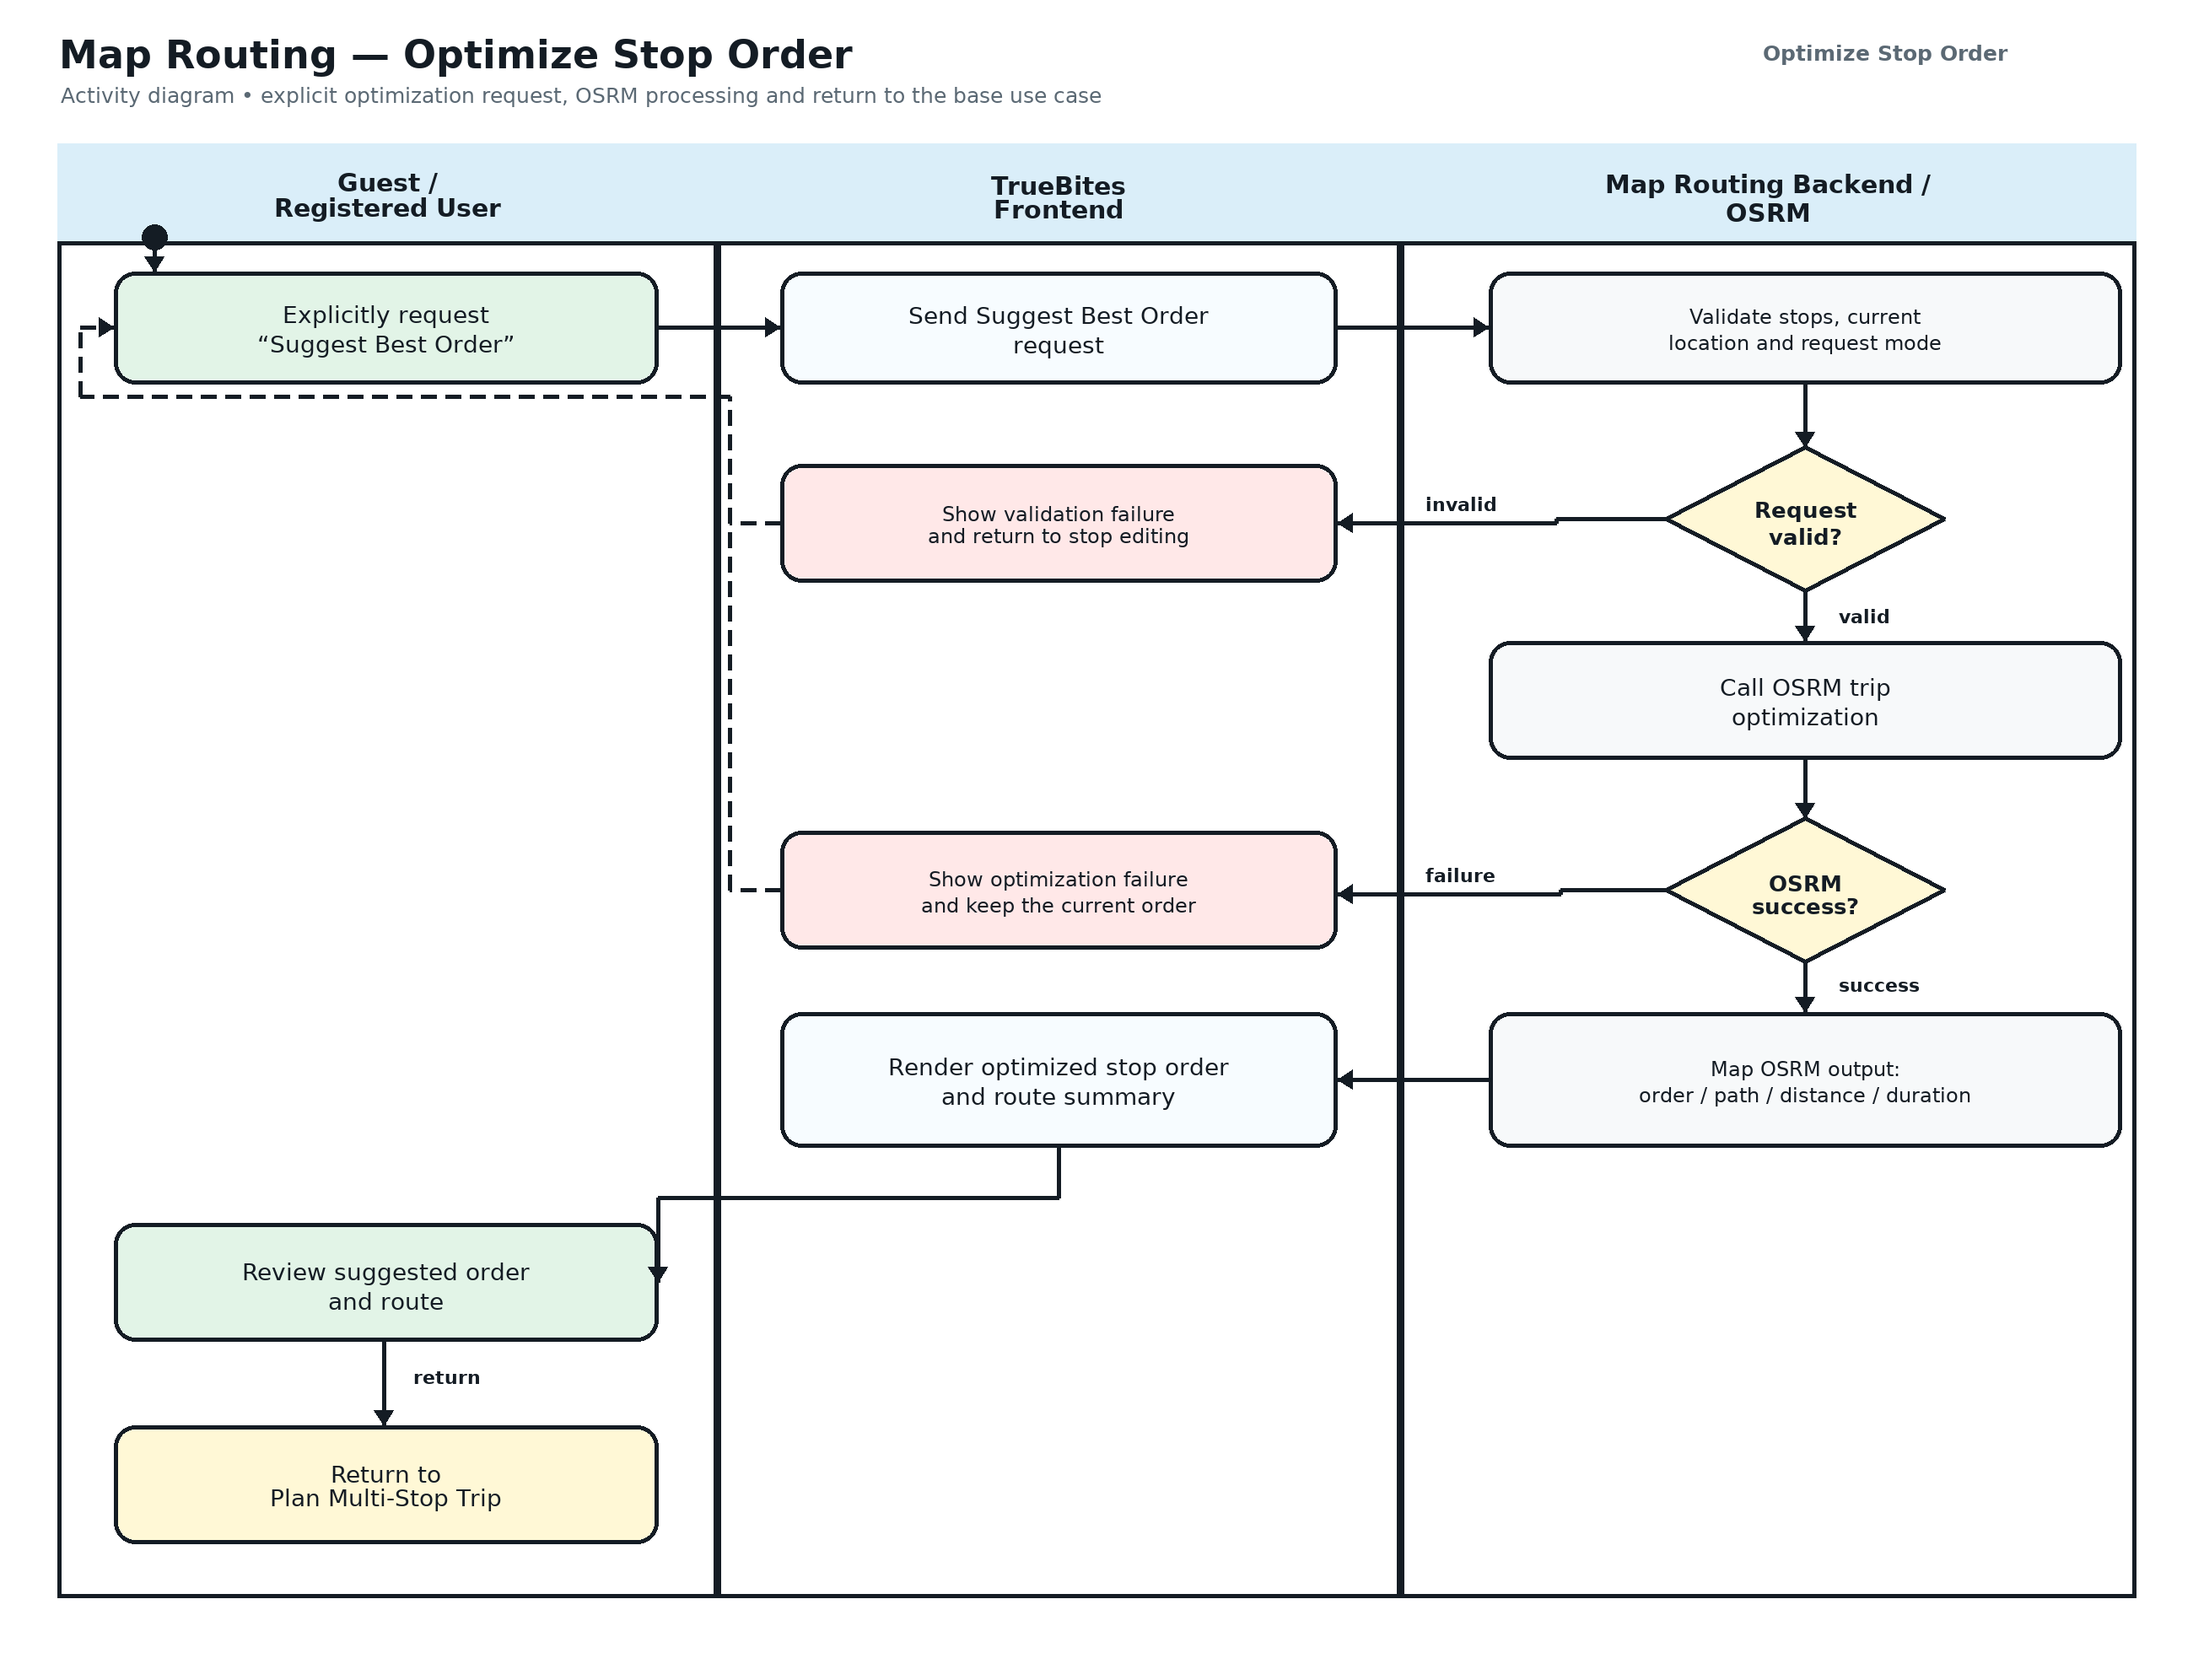
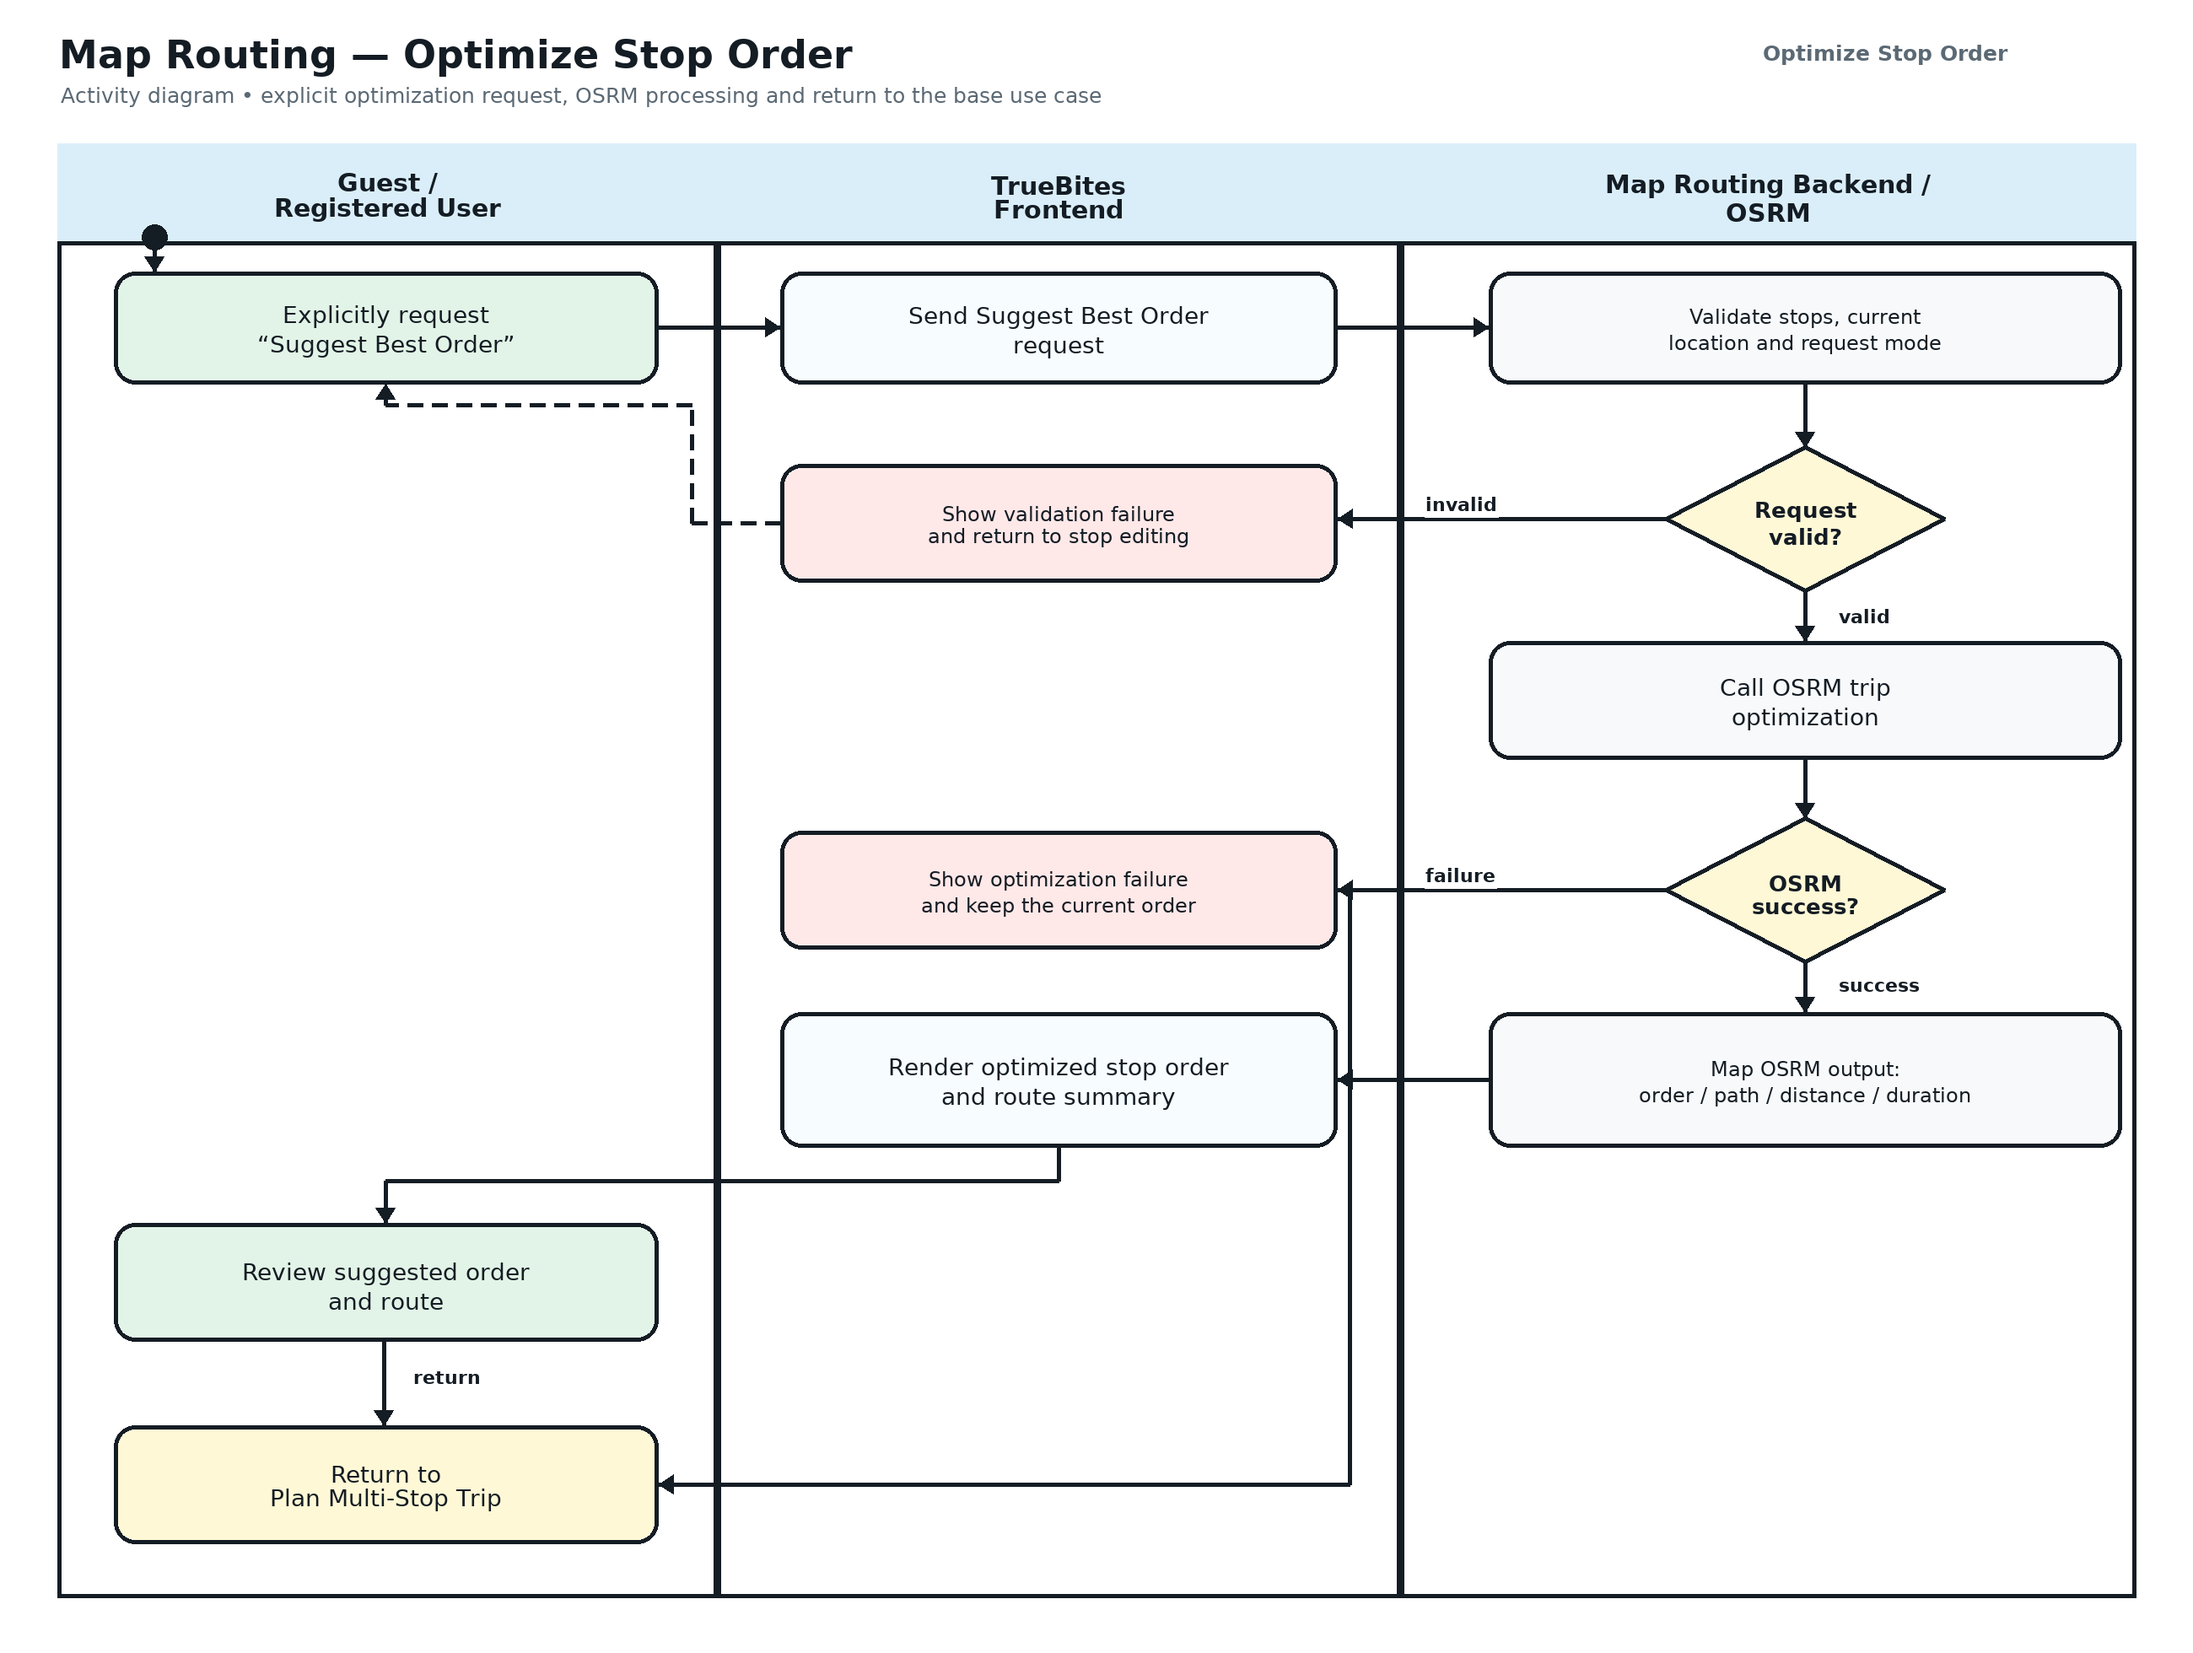
fix: align activity diagram connectors

diff --git a/scripts/render_map_routing_uml.py b/scripts/render_map_routing_uml.py
@@ -407,6 +407,56 @@ def draw_activity_lanes(draw: ImageDraw.ImageDraw, *, title_suffix: str) -> None
     draw.text((WIDTH - 510, 48), title_suffix, font=load_font(25, bold=True), fill=MID_GREY)
 
 
+def plan_activity_routes() -> dict[str, list[tuple[int, int]]]:
+    """Return the long plan-activity connectors that need dedicated gutters."""
+
+    return {
+        "gps_to_edit": [(925, 572), (780, 572)],
+        "backend_invalid_to_error": [(1975, 1265), (1585, 1265)],
+        "display_to_review": [
+            (1255, 1740),
+            (1255, 1760),
+            (457, 1760),
+            (457, 1780),
+        ],
+        "validation_error_retry": [
+            (1255, 1340),
+            (1255, 1380),
+            (95, 1380),
+            (95, 572),
+            (135, 572),
+        ],
+    }
+
+
+def optimize_activity_routes() -> dict[str, list[tuple[int, int]]]:
+    """Return optimization connectors with distinct retry channels."""
+
+    return {
+        "validation_invalid_to_error": [(1975, 615), (1585, 615)],
+        "osrm_failure_to_error": [(1975, 1055), (1585, 1055)],
+        "render_to_review": [
+            (1255, 1360),
+            (1255, 1400),
+            (457, 1400),
+            (457, 1450),
+        ],
+        "validation_failure_retry": [
+            (925, 620),
+            (820, 620),
+            (820, 480),
+            (457, 480),
+            (457, 455),
+        ],
+        "processing_failure_to_return": [
+            (1585, 1055),
+            (1600, 1055),
+            (1600, 1760),
+            (780, 1760),
+        ],
+    }
+
+
 def render_use_case() -> Path:
     image, draw = new_canvas(
         "Map Routing — Use-Case Diagram",
@@ -462,6 +512,7 @@ def render_plan_activity() -> Path:
         "Activity diagram • opening the map, collecting stops, requesting and reviewing a route",
     )
     draw_activity_lanes(draw, title_suffix="Plan Multi-Stop Trip")
+    routes = plan_activity_routes()
     box_font = load_font(28)
     small_font = load_font(24)
     decision_font = load_font(26, bold=True)
@@ -563,11 +614,7 @@ def render_plan_activity() -> Path:
     draw_polyline_arrow(draw, [(183, 296), (183, 322)], width=STROKE)
     draw_polyline_arrow(draw, [(780, 378), (925, 378)], width=STROKE)
     draw_polyline_arrow(draw, [(1255, 445), (1255, 495)], width=STROKE)
-    draw_polyline_arrow(
-        draw,
-        [(925, 560), (875, 560), (875, 572), (780, 572)],
-        width=STROKE,
-    )
+    draw_polyline_arrow(draw, routes["gps_to_edit"], width=STROKE)
     draw_polyline_arrow(draw, [(457, 640), (457, 720)], width=STROKE)
     draw_polyline_arrow(draw, [(780, 775), (925, 775)], width=STROKE)
     draw_polyline_arrow(draw, [(1255, 830), (1255, 850)], width=STROKE)
@@ -577,23 +624,23 @@ def render_plan_activity() -> Path:
     draw_polyline_arrow(draw, [(1255, 1000), (1255, 1035)], width=STROKE)
     draw_polyline_arrow(draw, [(1585, 1102), (1765, 1102)], width=STROKE)
     draw_polyline_arrow(draw, [(2140, 1170), (2140, 1180)], width=STROKE)
-    draw_polyline_arrow(draw, [(1975, 1265), (1850, 1265), (1850, 1270), (1585, 1270)], width=STROKE)
+    draw_polyline_arrow(draw, routes["backend_invalid_to_error"], width=STROKE)
     draw_label_on_line(draw, (1705, 1235), "invalid", font=load_font(22, bold=True))
     draw_polyline_arrow(draw, [(2140, 1350), (2140, 1400)], width=STROKE)
     draw_label_on_line(draw, (2180, 1360), "valid", font=load_font(22, bold=True))
     draw_polyline_arrow(draw, [(2140, 1535), (2140, 1600)], width=STROKE)
     draw_polyline_arrow(draw, [(1765, 1670), (1585, 1670)], width=STROKE)
-    draw_polyline_arrow(draw, [(925, 1670), (850, 1670), (850, 1835), (450, 1835)], width=STROKE)
+    draw_polyline_arrow(draw, routes["display_to_review"], width=STROKE)
     draw_polyline_arrow(draw, [(450, 1835), (500, 1835)], dashed=True, width=STROKE)
 
-    # Invalid point handling loops back to the editable stop list without crossing labels.
+    # The retry loop uses the empty lower gutter and returns along the far-left margin.
     draw_polyline_arrow(
         draw,
-        [(925, 1270), (865, 1270), (865, 660), (95, 660), (95, 572), (135, 572)],
+        routes["validation_error_retry"],
         dashed=True,
         width=STROKE,
     )
-    draw_label_on_line(draw, (110, 690), "edit and retry", font=load_font(21, bold=True))
+    draw_label_on_line(draw, (110, 1345), "edit and retry", font=load_font(21, bold=True))
 
     path = OUTPUT_DIR / "map-routing-activity-plan-trip.png"
     image.save(path, format="PNG", optimize=False, compress_level=9)
@@ -606,6 +653,7 @@ def render_optimize_activity() -> Path:
         "Activity diagram • explicit optimization request, OSRM processing and return to the base use case",
     )
     draw_activity_lanes(draw, title_suffix="Optimize Stop Order")
+    routes = optimize_activity_routes()
     box_font = load_font(28)
     small_font = load_font(24)
     decision_font = load_font(26, bold=True)
@@ -686,31 +734,31 @@ def render_optimize_activity() -> Path:
     draw_polyline_arrow(draw, [(780, 388), (925, 388)], width=STROKE)
     draw_polyline_arrow(draw, [(1585, 388), (1765, 388)], width=STROKE)
     draw_polyline_arrow(draw, [(2140, 455), (2140, 530)], width=STROKE)
-    draw_polyline_arrow(draw, [(1975, 615), (1845, 615), (1845, 620), (1585, 620)], width=STROKE)
+    draw_polyline_arrow(draw, routes["validation_invalid_to_error"], width=STROKE)
     draw_label_on_line(draw, (1690, 585), "invalid", font=load_font(22, bold=True))
     draw_polyline_arrow(draw, [(2140, 700), (2140, 760)], width=STROKE)
     draw_label_on_line(draw, (2180, 718), "valid", font=load_font(22, bold=True))
     draw_polyline_arrow(draw, [(2140, 900), (2140, 970)], width=STROKE)
-    draw_polyline_arrow(draw, [(1975, 1055), (1850, 1055), (1850, 1060), (1585, 1060)], width=STROKE)
+    draw_polyline_arrow(draw, routes["osrm_failure_to_error"], width=STROKE)
     draw_label_on_line(draw, (1690, 1025), "failure", font=load_font(22, bold=True))
     draw_polyline_arrow(draw, [(2140, 1140), (2140, 1200)], width=STROKE)
     draw_label_on_line(draw, (2180, 1155), "success", font=load_font(22, bold=True))
     draw_polyline_arrow(draw, [(1765, 1280), (1585, 1280)], width=STROKE)
-    draw_polyline_arrow(draw, [(1255, 1360), (1255, 1420), (780, 1420), (780, 1520)], width=STROKE)
+    draw_polyline_arrow(draw, routes["render_to_review"], width=STROKE)
     draw_polyline_arrow(draw, [(455, 1590), (455, 1690)], width=STROKE)
     draw_label_on_line(draw, (490, 1620), "return", font=load_font(22, bold=True))
 
-    # Failure and invalid branches loop back to the same user-editing entry point.
+    # Validation uses the local gap to retry; provider failure keeps the current
+    # order and returns to the base use case through the open lower gutter.
     draw_polyline_arrow(
         draw,
-        [(925, 620), (865, 620), (865, 470), (95, 470), (95, 388), (135, 388)],
+        routes["validation_failure_retry"],
         dashed=True,
         width=STROKE,
     )
     draw_polyline_arrow(
         draw,
-        [(925, 1055), (865, 1055), (865, 470), (95, 470), (95, 388), (135, 388)],
-        dashed=True,
+        routes["processing_failure_to_return"],
         width=STROKE,
     )
 

diff --git a/tests/test_render_map_routing_uml.py b/tests/test_render_map_routing_uml.py
@@ -1,0 +1,86 @@
+import unittest
+
+from scripts.render_map_routing_uml import (
+    optimize_activity_routes,
+    plan_activity_routes,
+)
+
+
+LANE_DIVIDERS = {850, 1660}
+
+
+def vertical_segments(points):
+    return [
+        (start, end)
+        for start, end in zip(points, points[1:])
+        if start[0] == end[0]
+    ]
+
+
+class ActivityRouteLayoutTests(unittest.TestCase):
+    def test_plan_cross_lane_connectors_do_not_have_micro_jogs(self):
+        routes = plan_activity_routes()
+
+        self.assertEqual(routes["gps_to_edit"], [(925, 572), (780, 572)])
+        self.assertEqual(
+            routes["backend_invalid_to_error"],
+            [(1975, 1265), (1585, 1265)],
+        )
+
+    def test_plan_review_flow_avoids_lane_dividers_and_enters_box_from_top(self):
+        route = plan_activity_routes()["display_to_review"]
+
+        self.assertEqual(route[-1], (457, 1780))
+        self.assertTrue(
+            all(start[0] not in LANE_DIVIDERS for start, _ in vertical_segments(route))
+        )
+
+    def test_plan_retry_loop_uses_a_clear_lower_gutter(self):
+        route = plan_activity_routes()["validation_error_retry"]
+
+        self.assertEqual(route[0], (1255, 1340))
+        self.assertEqual(route[-1], (135, 572))
+        self.assertIn((1255, 1380), route)
+        self.assertIn((95, 1380), route)
+
+    def test_optimize_review_flow_enters_box_from_top_center(self):
+        route = optimize_activity_routes()["render_to_review"]
+
+        self.assertEqual(route[-1], (457, 1450))
+        self.assertTrue(
+            all(start[0] not in LANE_DIVIDERS for start, _ in vertical_segments(route))
+        )
+
+    def test_optimize_error_connectors_do_not_have_micro_jogs(self):
+        routes = optimize_activity_routes()
+
+        self.assertEqual(
+            routes["validation_invalid_to_error"],
+            [(1975, 615), (1585, 615)],
+        )
+        self.assertEqual(
+            routes["osrm_failure_to_error"],
+            [(1975, 1055), (1585, 1055)],
+        )
+
+    def test_optimize_validation_retry_uses_the_local_gap(self):
+        routes = optimize_activity_routes()
+        validation = routes["validation_failure_retry"]
+
+        self.assertEqual(validation[0], (925, 620))
+        self.assertEqual(validation[-1], (457, 455))
+        self.assertIn((820, 480), validation)
+
+    def test_optimize_processing_failure_returns_without_crossing_success_flow(self):
+        route = optimize_activity_routes()["processing_failure_to_return"]
+
+        self.assertEqual(route[0], (1585, 1055))
+        self.assertEqual(route[-1], (780, 1760))
+        self.assertIn((1600, 1760), route)
+        self.assertTrue(
+            all(start[0] not in LANE_DIVIDERS for start, _ in vertical_segments(route))
+        )
+
+
+if __name__ == "__main__":
+    unittest.main()
